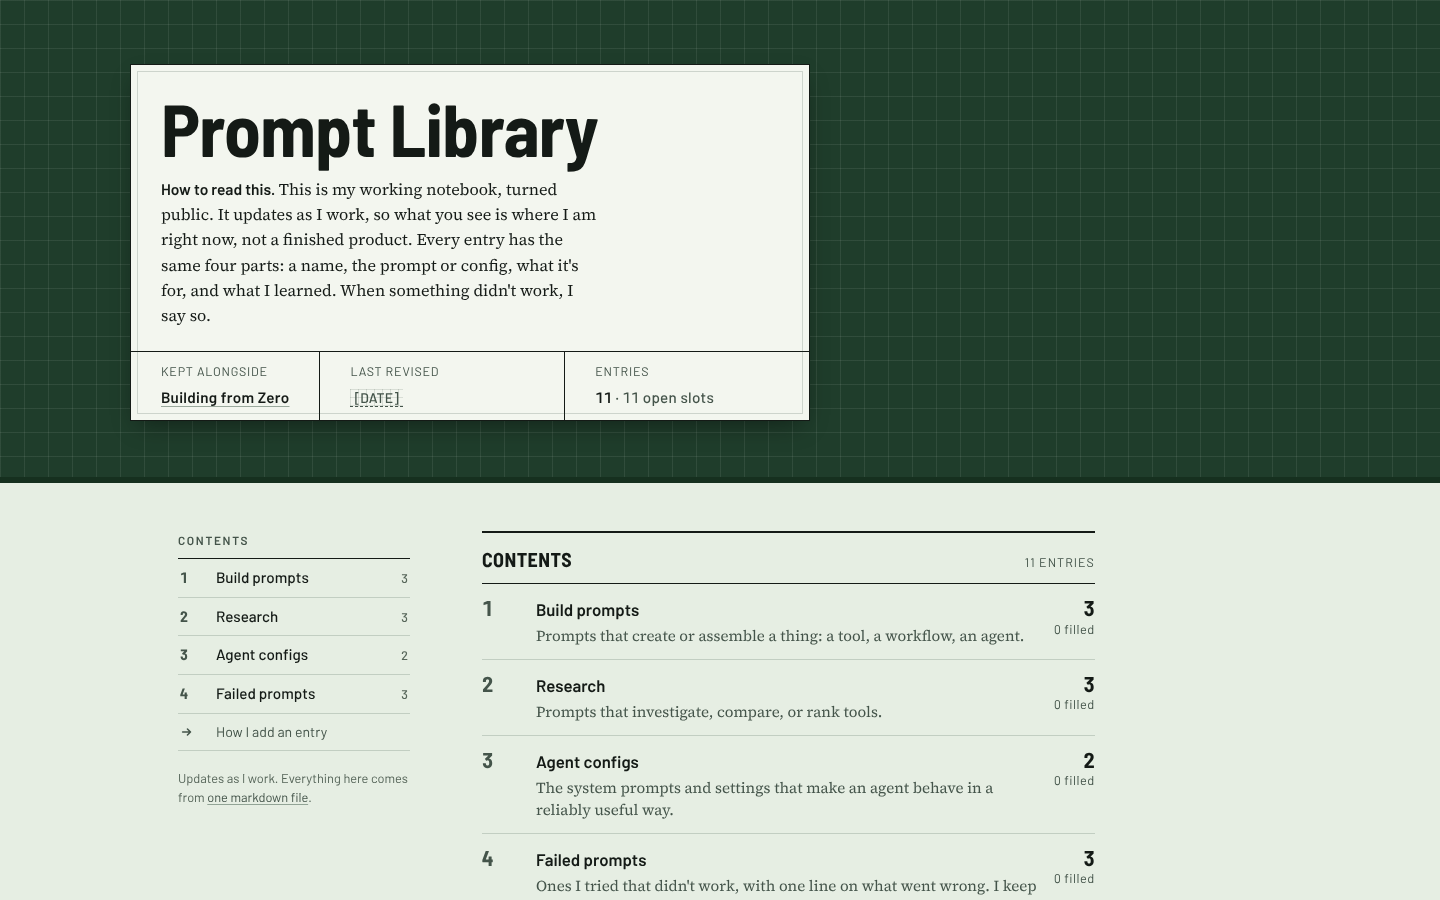
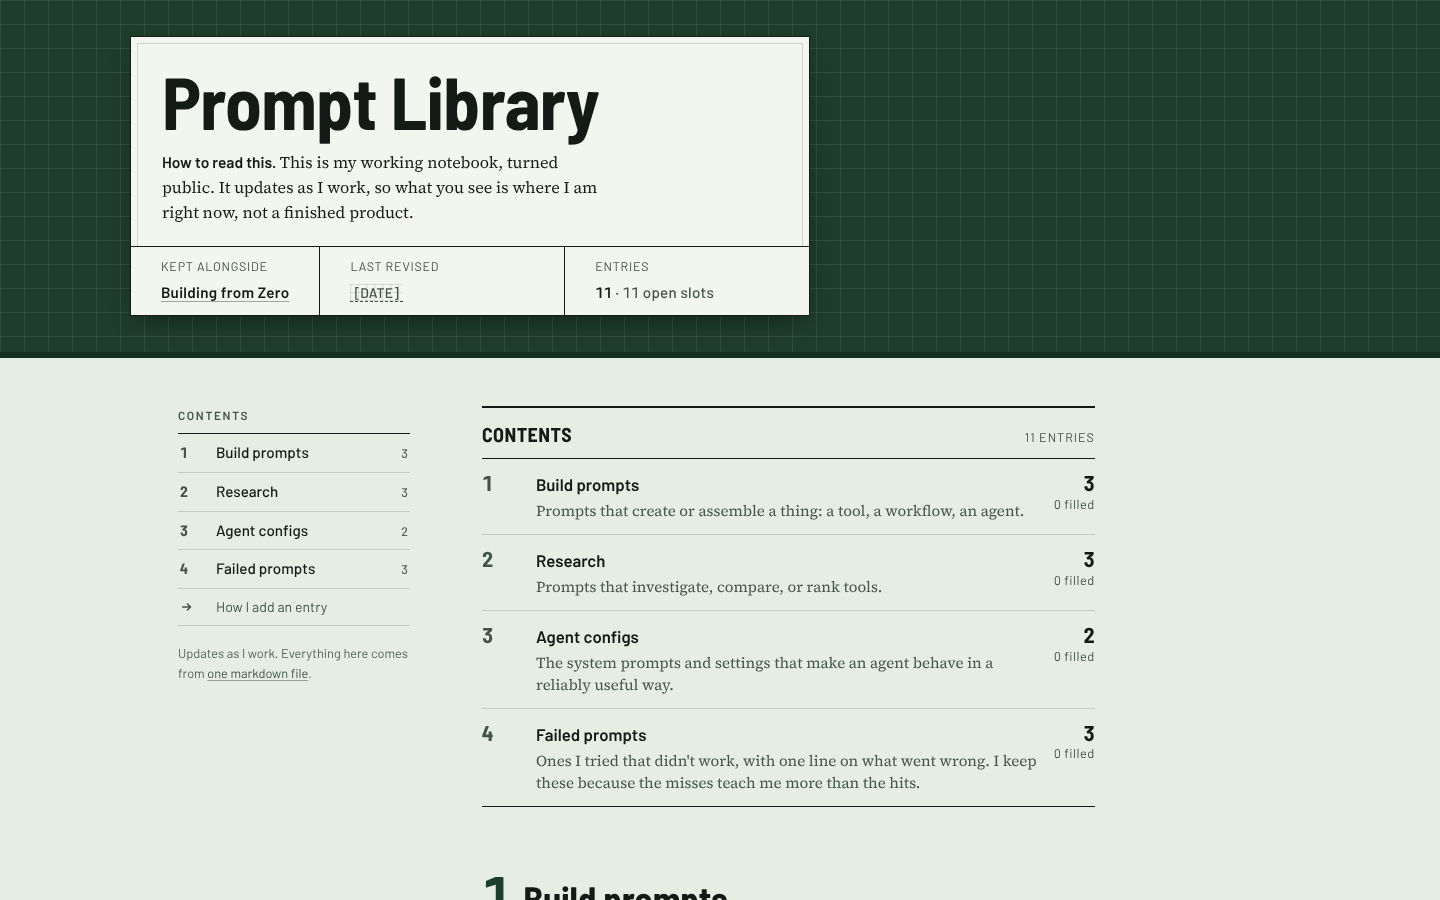
Prompt library: apply finish-review fixes
Shorter how-to-read line, lower cover band, failed slots keep their strike
and stamp, rail active state without a side stripe, bracketed JSON blocks
render as slots, appendix template block unboxed, plate inner rule ends
above the footer strip.

Claude-Session: https://claude.ai/code/session_01JF22QdwqQHUKiCAMByZGQd

diff --git a/prompts/index.html b/prompts/index.html
@@ -72,7 +72,7 @@ a:hover{text-decoration-color:var(--cloth)}
     linear-gradient(90deg,var(--grid-dark) 1px,transparent 1px);
   background-size:24px 24px,24px 24px;
   color:var(--cloth-ink);
-  padding:clamp(28px,5vw,64px) var(--gutter) clamp(32px,5vw,56px);
+  padding:clamp(20px,3vw,36px) var(--gutter) clamp(22px,3vw,36px);
   border-bottom:6px solid var(--cloth-deep);
 }
 .cover-in{max-width:1180px;margin:0 auto}
@@ -81,11 +81,11 @@ a:hover{text-decoration-color:var(--cloth)}
   max-width:680px;
   border:1px solid var(--ink);
   box-shadow:0 10px 24px -8px rgba(0,0,0,.45);
-  padding:clamp(18px,3vw,28px) clamp(18px,3vw,30px) 0;
-  position:relative;
+  padding:6px 6px 0;
 }
-.plate::before{
-  content:"";position:absolute;inset:6px;border:1px solid var(--rule-soft);pointer-events:none;
+.plate-body{
+  border:1px solid var(--rule-soft);border-bottom:0;
+  padding:clamp(14px,2.6vw,22px) clamp(14px,2.6vw,24px) clamp(14px,2.6vw,20px);
 }
 .title{
   font-family:var(--cond);font-weight:700;line-height:.95;letter-spacing:-.01em;
@@ -95,11 +95,11 @@ a:hover{text-decoration-color:var(--cloth)}
 .intro strong{font-family:var(--sans);font-weight:600;font-size:.95em}
 .plate-foot{
   display:grid;grid-template-columns:auto 1fr 1fr;
-  margin:22px calc(-1 * clamp(18px,3vw,30px)) 0;
+  margin:0 -6px 0;
   border-top:1px solid var(--ink);
   font-family:var(--sans);font-size:.78rem;letter-spacing:.06em;text-transform:uppercase;color:var(--ink-2);
 }
-.plate-foot>div{padding:10px clamp(18px,3vw,30px) 11px;min-height:44px;display:flex;flex-direction:column;justify-content:center;align-items:flex-start;gap:3px}
+.plate-foot>div{padding:10px clamp(18px,2.6vw,30px) 11px;min-height:44px;display:flex;flex-direction:column;justify-content:center;align-items:flex-start;gap:3px}
 .plate-foot>div+div{border-left:1px solid var(--ink)}
 .plate-foot b{color:var(--ink);font-weight:600;letter-spacing:.02em;text-transform:none;font-size:.95rem;font-variant-numeric:tabular-nums}
 .plate-foot b a{color:var(--ink);text-decoration-color:var(--rule)}
@@ -107,7 +107,7 @@ a:hover{text-decoration-color:var(--cloth)}
 @media (max-width:600px){
   .plate-foot{grid-template-columns:1fr}
   .plate-foot>div+div{border-left:0;border-top:1px solid var(--rule)}
-  .plate-foot>div{min-height:40px;padding-top:8px;padding-bottom:8px;flex-direction:row;align-items:center;gap:8px;flex-wrap:wrap}
+  .plate-foot>div{min-height:40px;padding-top:8px;padding-bottom:8px;flex-direction:row;justify-content:flex-start;align-items:center;gap:8px;flex-wrap:wrap}
 }
 
 /* ---------- book layout ---------- */
@@ -124,9 +124,8 @@ a:hover{text-decoration-color:var(--cloth)}
   .rail ol a:hover{color:var(--cloth)}
   .rail .no{font-family:var(--cond);font-weight:700;color:var(--ink-2);font-variant-numeric:tabular-nums}
   .rail .ct{font-size:.78rem;color:var(--ink-3);font-variant-numeric:tabular-nums}
-  .rail li.is-active a{color:var(--cloth)}
-  .rail li.is-active{box-shadow:inset 3px 0 0 var(--cloth)}
-  .rail li.is-active a{padding-left:10px}
+  .rail li.is-active{border-bottom-color:var(--ink)}
+  .rail li.is-active a,.rail li.is-active .no{color:var(--cloth);font-weight:700}
   .rail .appendix a{grid-template-columns:28px 1fr;font-weight:400;color:var(--ink-2);font-size:.88rem}
   .rail .appendix .no svg{width:14px;height:14px;stroke:currentColor;fill:none;stroke-width:1.75;stroke-linecap:round;stroke-linejoin:round;vertical-align:-2px}
   .rail-note{margin:18px 0 0;font-size:.8rem;line-height:1.5;color:var(--ink-3)}
@@ -262,17 +261,15 @@ dl:last-child{margin-bottom:0}
 
 /* failed section: struck, stamped, kept */
 .entry.is-failed .strip h3{text-decoration:line-through;text-decoration-color:rgba(179,38,30,.85);text-decoration-thickness:2px}
-.entry.is-failed.is-open .strip h3{text-decoration:none}
 .stamp{
   display:inline-block;font-family:var(--cond);font-weight:700;font-size:.72rem;letter-spacing:.14em;text-transform:uppercase;
   color:var(--stamp);border:2px solid var(--stamp);padding:2px 7px 1px;border-radius:2px;
   transform:rotate(-4deg);mix-blend-mode:multiply;line-height:1.2;white-space:nowrap;
 }
-.entry.is-open .stamp{opacity:.4}
 
 /* appendix prose */
 .prose p{margin:0 0 14px}
-.prose code{font-family:var(--mono);font-size:.88em;background:var(--field);border:1px solid var(--rule-soft);padding:.05em .35em;border-radius:2px}
+.prose :not(pre)>code{font-family:var(--mono);font-size:.88em;background:var(--field);border:1px solid var(--rule-soft);padding:.05em .35em;border-radius:2px}
 .prose .code{margin-top:4px}
 
 /* status, footer */
@@ -304,8 +301,10 @@ noscript p{font-family:var(--sans)}
 <header class="cover">
   <div class="cover-in">
     <div class="plate" id="plate">
+      <div class="plate-body">
       <h1 class="title" id="title">Prompt Library</h1>
-      <p class="intro" id="intro">This is my working notebook, turned public. It updates as I work, so what you see is where I am right now, not a finished product.</p>
+      <p class="intro" id="intro"><strong>How to read this.</strong> This is my working notebook, turned public. It updates as I work, so what you see is where I am right now, not a finished product.</p>
+      </div>
       <div class="plate-foot">
         <div><span>Kept alongside</span> <b><a href="https://buildingfromzero.co">Building from Zero</a></b></div>
         <div><span>Last revised</span> <b id="revised">…</b></div>
@@ -343,7 +342,7 @@ noscript p{font-family:var(--sans)}
   'use strict';
   var SOURCE = 'PROMPT-LIBRARY.md';
   var PLACEHOLDER = /^\[[^\]]*\]$/;          // whole string is [something]
-  var PLACEHOLDER_IN = /\[[A-Z][^\]]*\]/;     // a [Capitalised] token somewhere in the line
+  var PLACEHOLDER_IN = /\[[^\]]+\]/;          // a [bracketed] token somewhere in the line
 
   var $ = function (sel, root) { return (root || document).querySelector(sel); };
   var el = function (tag, cls, html) {

diff --git a/prompts/.impeccable/surfaces/prompts-index-html.md b/prompts/.impeccable/surfaces/prompts-index-html.md
@@ -23,11 +23,11 @@ OWN-WORLD: Eye-ease pale green stock, the engineering computation pad, with a fi
 
 STORY: The reader sees within a second that this is one person's notebook, revised on a stated date and still being filled. They find their section in the contents, jump to it, hit copy on the prompt, and read the one line underneath it. A browsing reader scrolls the ledger in order and reaches the failures last, where the struck-through names make the honesty visible without a word of explanation.
 
-FIRST VIEWPORT (desktop 1440 wide): A bottle-green band across the top, about a third of the viewport tall, holding the cover label block left-aligned on a pale label: "Building from Zero" small in Barlow caps, "Prompt Library" large, the how-to-read paragraph in Source Serif 4 beneath it, and a ruled footer row on the label reading "Last revised [date]" and "[n] entries, [m] slots open". Below the band, on the green stock: a left rail (sticky, about 240px) with the contents as a ruled list with entry counts; to its right the reading column at 68ch holding the contents table as the first ruled block (No., section, what it holds, count) and the start of section 1 with its first entry strip visible at the fold. Primary action: the section links in the contents; secondary: the first entry's copy tab. Mobile 390: band compressed to the label block; contents as a ruled list; rail hidden; the entry strip stacks (No. and date on one line, title below), code blocks scroll horizontally inside their field, copy tab stays reachable with the thumb.
+FIRST VIEWPORT (desktop 1440 wide): A bottle-green band across the top, about a third of the viewport tall, holding the cover label block left-aligned on a pale label: "Building from Zero" small in Barlow caps, "Prompt Library" large, the two-sentence how-to-read line in Source Serif 4 beneath it, and a ruled footer row on the label reading "Last revised [date]" and "[n] entries, [m] slots open". Below the band, on the green stock: a left rail (sticky, about 240px) with the contents as a ruled list with entry counts; to its right the reading column at 68ch holding the contents table as the first ruled block (No., section, what it holds, count) and the start of section 1 with its first entry strip visible at the fold. Primary action: the section links in the contents; secondary: the first entry's copy tab. Mobile 390: band compressed to the label block; contents as a ruled list; rail hidden; the entry strip stacks (No. and date on one line, title below), code blocks scroll horizontally inside their field, copy tab stays reachable with the thumb.
 
-FORM: Engineering lab notebook. Candidate 1 on my ordered grounded list, presented as the pick card and chosen by the user over the assigned candidate 5 (type specimen sheet). Seed key 702cb7d9, roll run degraded (no challengers reachable), code-led (no image generation).
+FORM: Engineering lab notebook. Candidate 1 on my ordered grounded list, presented as the pick card and chosen by the user over the assigned candidate 5 (type specimen sheet). seed: none (the roll ran degraded with the catalog unreachable and printed no SEED REFERENCE line). Code-led (no image generation).
 
-SIGNATURE INTERACTION: Copy tab on each prompt. On press the tab reads "Copied" and a thin green rule draws across the entry strip left to right, exponential ease-out, 600ms, then settles; the strip's date field ticks to show nothing else changed. Reduced motion: text swap only.
+SIGNATURE INTERACTION: Copy tab on every code field. On press the tab reads "Copied" with a drawn check, and a thin bottle-green rule draws across the code field's header left to right, exponential ease-out, 600ms, then settles back after 1.8s. Reduced motion: text swap only.
 
 FINISH: unreviewed and undocumented is unfinished; this build ends with the finish review, the verdict, DESIGN.md, and every shipping raster carrying its provenance.
 

diff --git a/prompts/PROMPT-LIBRARY.md b/prompts/PROMPT-LIBRARY.md
@@ -1,6 +1,6 @@
 # Building from Zero: Prompt Library
 
-**How to read this.** This is my working notebook, turned public. It updates as I work, so what you see is where I am right now, not a finished product. Every entry has the same four parts: a name, the prompt or config, what it's for, and what I learned. When something didn't work, I say so.
+**How to read this.** This is my working notebook, turned public. It updates as I work, so what you see is where I am right now, not a finished product.
 
 Last updated: `[DATE]`
 
